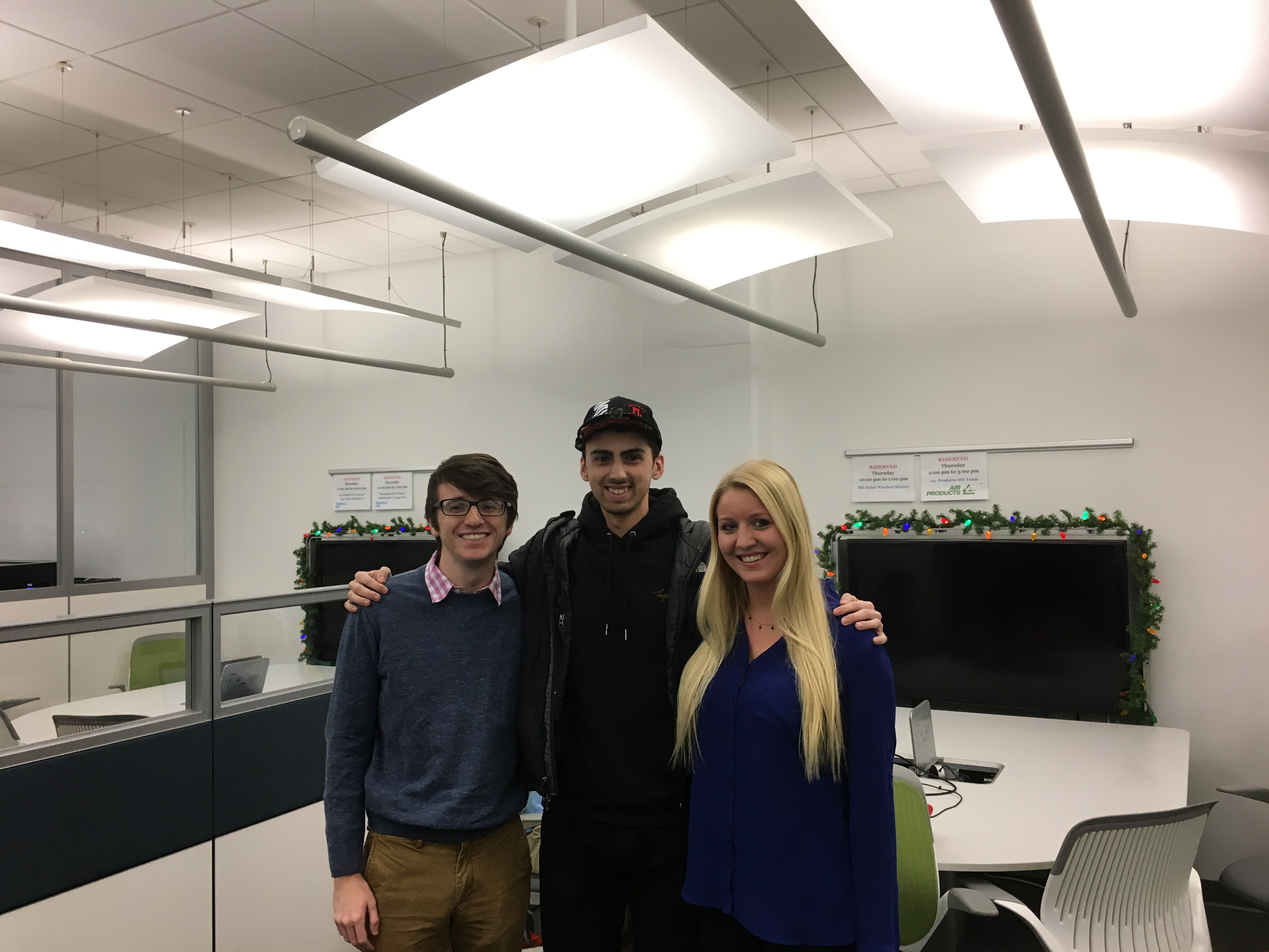
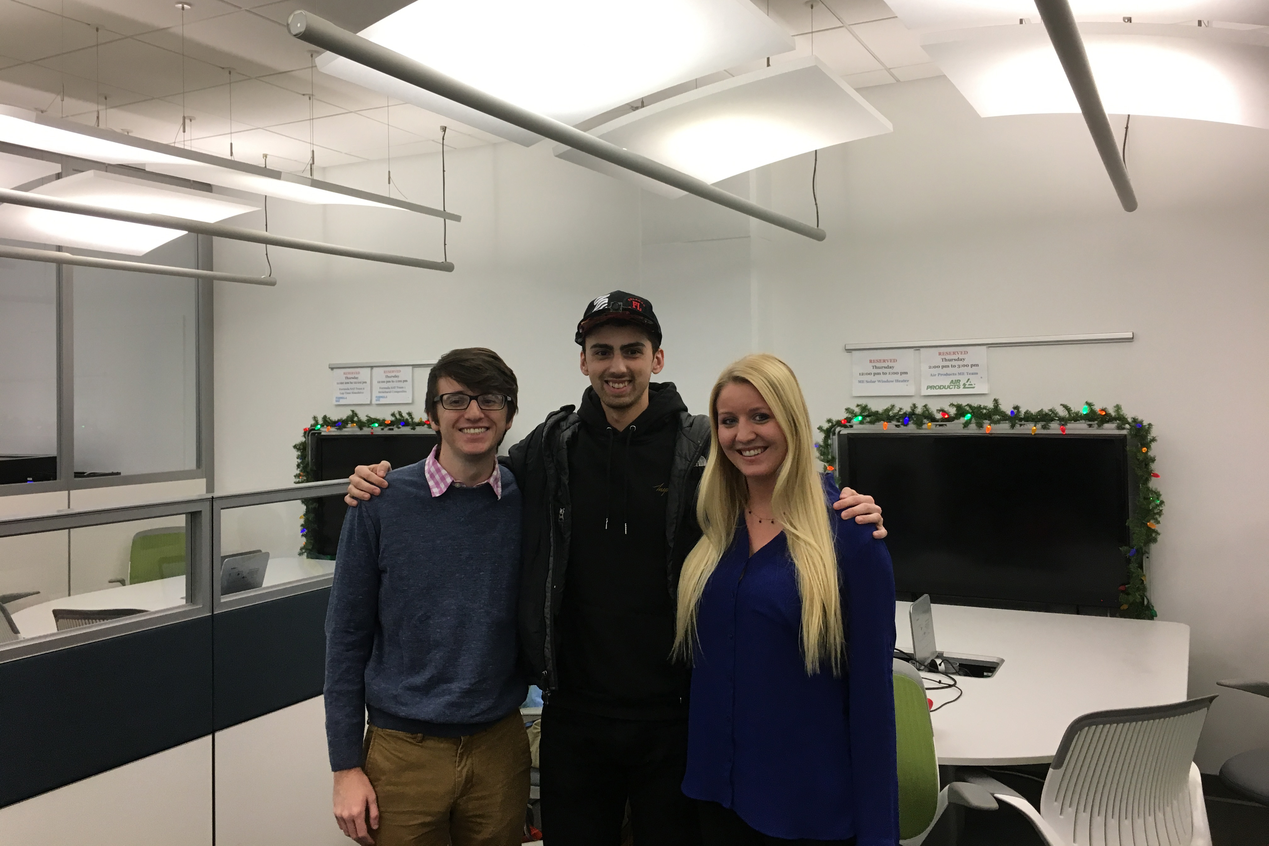
css image zooming and image aspect ratio fixes to 4:3

diff --git a/projects/haptic-device.html b/projects/haptic-device.html
@@ -32,9 +32,30 @@
 <p>The device is implemented as a wearable in the form of a hat.  It detects objects in the direct line of sight of the user.  It utilizes two motors placed on the left and right side of the hat such that they are lined up with the user's temples.  They pulse more rapidly the closer an object is, cutting off at a distance of under five inches from the user. Similarly, the two motors vibrate less frequently the further away the object is from the user, with the maximum distance set to fifteen feet.  An Arduino LilyPad was used as the microcontroller.  Distance reading came from one MaxSonar ultrasonic sensor located on the center on the brim of the hat facing forward.  The device is powered by a 2000mAh battery, which allows the user to wear it all day. An on/off switch located on the side of the hat toggles between turning the device on and charging the battery when a mini USB is connected to the charging port.</p>
 
 <h2>the device</h2>
-<p><img src="http://bsakhuja.github.io/images/haptic-device/underside.jpg" alt="The Hat" style="width:400;height:533;"></p>
+<p><img src="http://bsakhuja.github.io/images/haptic-device/hat.jpg" alt="The Hat" style="width:400;height:533;"></p>
+
+
 <h2>flow chart</h2>
-<p><a href="http://bsakhuja.github.io/images/haptic-device/flow-chart.png"><img src="http://bsakhuja.github.io/images/haptic-device/flow-chart.png" alt="Flow Chart" style="width:400;height:347;"></a></p>
+<div class = "thumbnail">
+  <div class = "image">
+    <p><img src="http://bsakhuja.github.io/images/haptic-device/flow-chart.png" alt="Flow Chart"/></p>
+  </div>
+</div>
+
+
+<h2>technical description of operation</h2>
+<p>When the user flips the switch, the device is powered by the battery.  The LilyPad runs the code, which has the following behavior based on object proximity (which can also be seen in the block diagram above): 
+<p>For objects in the range of 180”-120”, the motors are on for 100ms and off for 900ms.  
+For objects in the range of 120”-100”, the motors are on for 100ms and off for 800ms.  
+For objects in the range of 100”-80”, the motors are on for 100ms and off for 700ms.  
+For objects in the range of 80”-60”, the motors are on for 100ms and off for 600ms.
+For objects in the range of 60”-50”, the motors are on for 100ms and off for 500ms.
+For objects in the range of 50”-40”, the motors are on for 400ms and off for 400ms.
+For objects in the range of 40”-30”, the motors are on for 300ms and off for 300ms.
+For objects in the range of 30”-20”, the motors are on for 250ms and off for 250ms.
+For objects in the range of 20”-15”, the motors are on for 200ms and off for 200ms.
+For objects in the range of 15”-10”, the motors are on for 150ms and off for 150ms.
+For objects in the range of 10”-5”, the motors are on for 100ms and off for 100ms.</p>
 
 <h2>the team</h2>
 <p><img src="http://bsakhuja.github.io/images/haptic-device/team.jpg" alt="The Team" style="width:400;height:300;"></p>

diff --git a/stylesheets/stylesheet.css b/stylesheets/stylesheet.css
@@ -368,8 +368,41 @@ Full-Width Styles
   background: #212121;
 }
 
+.thumbnail {
+  position: absolute;
+    top: 50%;
+    left: 50%;
 
+    width: 320px;
+    height: 240;
 
+    -webkit-transform: translate(-50%,-50%); /* Safari and Chrome */
+    -moz-transform: translate(-50%,-50%); /* Firefox */
+    -ms-transform: translate(-50%,-50%); /* IE 9 */
+    -o-transform: translate(-50%,-50%); /* Opera */
+    transform: translate(-50%,-50%);
+}
+
+.image {
+  width: 100%;
+  height: 100%;
+}
+
+.image img {
+  -webkit-transition: all 1s ease; /* Safari and Chrome */
+  -moz-transition: all 1s ease; /* Firefox */
+  -o-transition: all 1s ease; /* IE 9 */
+  -ms-transition: all 1s ease; /* Opera */
+  transition: all 1s ease;
+}
+
+.image:hover img {
+  -webkit-transform:scale(1.25); /* Safari and Chrome */
+  -moz-transform:scale(1.25); /* Firefox */
+  -ms-transform:scale(1.25); /* IE 9 */
+  -o-transform:scale(1.25); /* Opera */
+   transform:scale(1.25);
+}
 /*******************************************************************************
 Small Device Styles
 *******************************************************************************/
